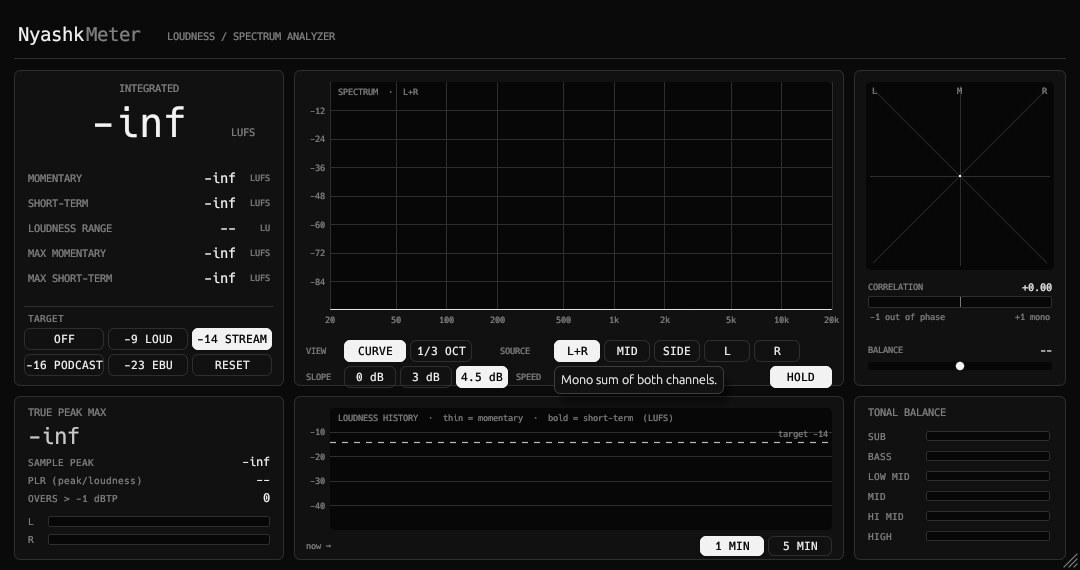
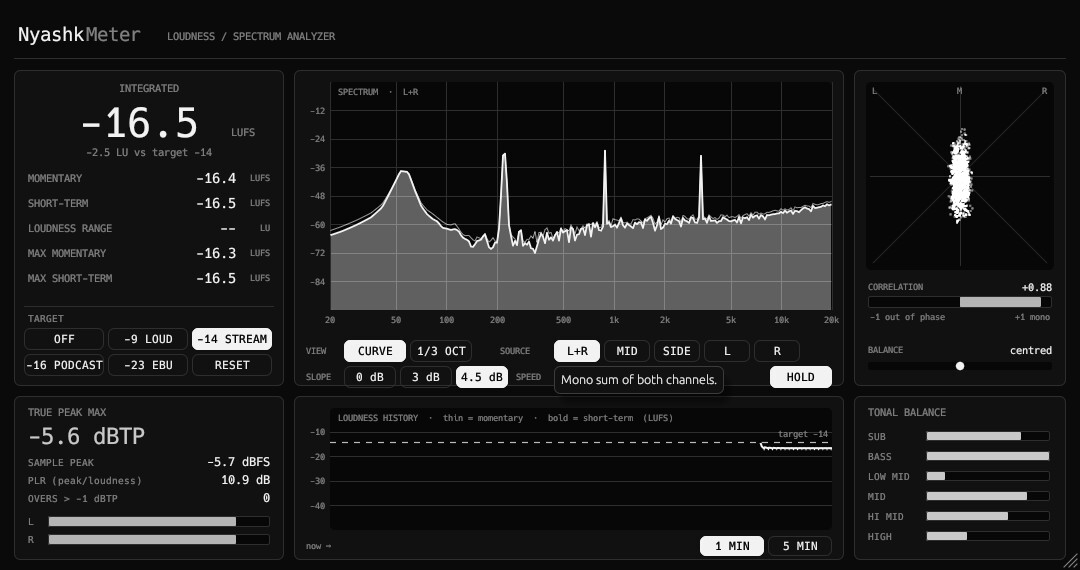
Fix spectrum fill, Air curve dip, NaN guard, band colours, stress tests
Claude-Session: https://claude.ai/code/session_01EndxvcXZsUxUuBFyUHCgZr

diff --git a/crates/common/src/ui.rs b/crates/common/src/ui.rs
@@ -51,8 +51,22 @@ pub fn knob<P: Param>(ui: &mut Ui, setter: &ParamSetter, p: &P, label: &str, cel
     knob_r(ui, setter, p, label, cell, tooltip, bipolar, 30.0)
 }
 
+/// Band colours (muted so they sit well on the black UI): used by the EQ and the channel strip.
+pub const C_LF: Color32 = Color32::from_rgb(0xd8, 0x62, 0x5c);
+pub const C_LMF: Color32 = Color32::from_rgb(0x86, 0xc2, 0x6e);
+pub const C_HMF: Color32 = Color32::from_rgb(0x5f, 0xa3, 0xe4);
+pub const C_HF: Color32 = Color32::from_rgb(0xc0, 0x92, 0xe0);
+pub const C_DYN: Color32 = Color32::from_rgb(0xe2, 0xb0, 0x58);
+pub const C_GATE: Color32 = Color32::from_rgb(0x58, 0xc4, 0xb8);
+
 #[allow(clippy::too_many_arguments)]
 pub fn knob_r<P: Param>(ui: &mut Ui, setter: &ParamSetter, p: &P, label: &str, cell: Rect, tooltip: &str, bipolar: bool, r: f32) -> KnobEv {
+    knob_ac(ui, setter, p, label, cell, tooltip, bipolar, r, WHITE)
+}
+
+/// Knob with an accent colour for the value arc and pointer.
+#[allow(clippy::too_many_arguments)]
+pub fn knob_ac<P: Param>(ui: &mut Ui, setter: &ParamSetter, p: &P, label: &str, cell: Rect, tooltip: &str, bipolar: bool, r: f32, accent: Color32) -> KnobEv {
     let c = Pos2::new(cell.center().x, cell.top() + r + 4.0);
     let hit = Rect::from_center_size(c, Vec2::splat(2.0 * r + 8.0));
     let resp = ui.allocate_rect(hit, Sense::click_and_drag());
@@ -116,9 +130,9 @@ pub fn knob_r<P: Param>(ui: &mut Ui, setter: &ParamSetter, p: &P, label: &str, c
     painter.circle_filled(pt(ring, 1.0), 2.0, LINE);
     let from = if bipolar { 0.5 } else { 0.0 };
     if (norm - from).abs() > 0.002 {
-        painter.add(egui::Shape::line(arc(from, norm), PathStroke::new(4.0, WHITE)));
-        painter.circle_filled(pt(ring, from), 2.0, WHITE);
-        painter.circle_filled(pt(ring, norm), 2.0, WHITE);
+        painter.add(egui::Shape::line(arc(from, norm), PathStroke::new(4.0, accent)));
+        painter.circle_filled(pt(ring, from), 2.0, accent);
+        painter.circle_filled(pt(ring, norm), 2.0, accent);
     }
     // round knob body
     let body = r * 0.72;
@@ -127,9 +141,9 @@ pub fn knob_r<P: Param>(ui: &mut Ui, setter: &ParamSetter, p: &P, label: &str, c
     painter.circle_filled(c, body * 0.84, Color32::from_rgb(24, 24, 24));
     painter.circle_stroke(c, body, Stroke::new(1.0, Color32::from_rgb(70, 70, 70)));
     // pointer
-    painter.line_segment([pt(body * 0.30, norm), pt(body * 0.80, norm)], Stroke::new(3.0, WHITE));
-    painter.circle_filled(pt(body * 0.80, norm), 1.5, WHITE);
-    painter.circle_filled(pt(body * 0.30, norm), 1.5, WHITE);
+    painter.line_segment([pt(body * 0.30, norm), pt(body * 0.80, norm)], Stroke::new(3.0, accent));
+    painter.circle_filled(pt(body * 0.80, norm), 1.5, accent);
+    painter.circle_filled(pt(body * 0.30, norm), 1.5, accent);
 
     // value + label (click the value box to type a number)
     let val = p.normalized_value_to_string(norm, true);
@@ -296,4 +310,23 @@ pub fn vbar(ui: &Ui, rect: Rect, level_db: f32, peak_db: f32, lo: f32, hi: f32) 
 pub fn led(ui: &Ui, c: Pos2, on: bool) {
     ui.painter().circle_filled(c, 3.5, if on { WHITE } else { Color32::from_rgb(0x2a, 0x2a, 0x2a) });
     ui.painter().circle_stroke(c, 3.5, Stroke::new(1.0, LINE));
+}
+
+/// Fill the area between a polyline and the horizontal line `base_y`.
+/// egui fills only convex polygons, so a spectrum has to be drawn as a strip of quads.
+pub fn fill_under(painter: &egui::Painter, pts: &[Pos2], base_y: f32, color: Color32) {
+    if pts.len() < 2 {
+        return;
+    }
+    let mut mesh = egui::epaint::Mesh::default();
+    let uv = egui::epaint::WHITE_UV;
+    for w in pts.windows(2) {
+        let (a, b) = (w[0], w[1]);
+        let i = mesh.vertices.len() as u32;
+        for p in [a, b, Pos2::new(b.x, base_y), Pos2::new(a.x, base_y)] {
+            mesh.vertices.push(egui::epaint::Vertex { pos: p, uv, color });
+        }
+        mesh.indices.extend_from_slice(&[i, i + 1, i + 2, i, i + 2, i + 3]);
+    }
+    painter.add(egui::Shape::mesh(mesh));
 }

diff --git a/crates/common/src/demo.rs b/crates/common/src/demo.rs
@@ -1,0 +1,53 @@
+//! Developer helper for screenshots: with `NYASHK_DEMO=1` the standalone builds replace the input
+//! with a music-like test signal (bass, mids, a bit of top, decorrelated noise).
+use nih_plug::prelude::Buffer;
+use std::sync::Mutex;
+
+struct State {
+    n: u64,
+    rng: u32,
+    lp: [f32; 2],
+    on: bool,
+}
+static ST: Mutex<Option<State>> = Mutex::new(None);
+
+pub fn fill(buffer: &mut Buffer, fs: f32) {
+    let mut g = ST.lock().unwrap();
+    let st = g.get_or_insert_with(|| State { n: 0, rng: 12345, lp: [0.0; 2], on: std::env::var("NYASHK_DEMO").is_ok() });
+    if !st.on {
+        return;
+    }
+    for mut frame in buffer.iter_samples() {
+        let t = st.n as f32 / fs;
+        st.n += 1;
+        let beat = (-(t * 2.0 % 1.0) * 5.0).exp();
+        let mut v = [0.0f32; 2];
+        for (c, s) in frame.iter_mut().enumerate() {
+            st.rng = st.rng.wrapping_mul(1664525).wrapping_add(1013904223);
+            let white = (st.rng >> 8) as f32 / 8388608.0 - 1.0;
+            st.lp[c] += 0.15 * (white - st.lp[c]);
+            let w = std::f32::consts::TAU * t;
+            let x = 0.35 * beat * (w * 55.0).sin()
+                + 0.12 * (w * 220.0).sin()
+                + 0.08 * (w * 880.0 + c as f32).sin()
+                + 0.04 * (w * 3300.0).sin()
+                + 0.10 * st.lp[c]
+                + 0.02 * white;
+            v[c] = x;
+            *s = x * 0.9;
+        }
+        let _ = v;
+    }
+}
+
+/// Replace NaN / infinite input samples by silence, so one bad sample from a host cannot
+/// poison the filter states of a plugin forever.
+pub fn sanitize(buffer: &mut Buffer) {
+    for ch in buffer.as_slice() {
+        for s in ch.iter_mut() {
+            if !s.is_finite() {
+                *s = 0.0;
+            }
+        }
+    }
+}

diff --git a/plugins/nyashkmeter/src/editor.rs b/plugins/nyashkmeter/src/editor.rs
@@ -235,10 +235,7 @@ pub fn create(params: Arc<MeterParams>, shared: Arc<Shared>) -> Option<Box<dyn E
                             line.push(Pos2::new(xa + 1.0, dy(at(&st.smooth, fa, fb) + adj)));
                             peak.push(Pos2::new(xa + 1.0, dy(at(&st.hold, fa, fb) + adj)));
                         }
-                        let mut poly = line.clone();
-                        poly.push(Pos2::new(g.right(), g.bottom()));
-                        poly.push(Pos2::new(g.left(), g.bottom()));
-                        clip.add(egui::Shape::Path(egui::epaint::PathShape { points: poly, closed: true, fill: Color32::from_white_alpha(26), stroke: egui::epaint::PathStroke::NONE }));
+                        fill_under(&clip, &line, g.bottom(), Color32::from_white_alpha(26));
                         if p.hold.value() {
                             clip.add(egui::Shape::line(peak, PathStroke::new(1.0, Color32::from_white_alpha(80))));
                         }

diff --git a/crates/common/src/dsp.rs b/crates/common/src/dsp.rs
@@ -102,6 +102,13 @@ impl Coef {
         Coef { b0: b0 as f32, b1: (-b0) as f32, b2: 0.0, a1: ((k - 1.0) / (1.0 + k)) as f32, a2: 0.0 }
     }
 
+    /// First-order low-pass (6 dB/oct), bilinear.
+    pub fn lowpass1(fs: f32, f: f32) -> Coef {
+        let k = (std::f64::consts::PI * (f as f64).clamp(5.0, fs as f64 * 0.49) / fs as f64).tan();
+        let b0 = k / (1.0 + k);
+        Coef { b0: b0 as f32, b1: b0 as f32, b2: 0.0, a1: ((k - 1.0) / (1.0 + k)) as f32, a2: 0.0 }
+    }
+
     /// Band-pass with constant 0 dB peak gain.
     pub fn bandpass(fs: f32, f: f32, q: f32) -> Coef {
         let f = (f as f64).clamp(5.0, fs as f64 * 0.49);

diff --git a/plugins/nyashkmeter/src/lib.rs b/plugins/nyashkmeter/src/lib.rs
@@ -248,6 +248,9 @@ impl Plugin for NyashkMeter {
     }
 
     fn process(&mut self, buffer: &mut Buffer, _aux: &mut AuxiliaryBuffers, _c: &mut impl ProcessContext<Self>) -> ProcessStatus {
+        nyashk_common::demo::sanitize(buffer);
+        #[cfg(feature = "standalone")]
+        nyashk_common::demo::fill(buffer, 48000.0);
         let Some(meter) = self.meter.as_mut() else { return ProcessStatus::Normal };
         let sh = &self.shared;
         if sh.reset.swap(false, Ordering::Relaxed) {

diff --git a/crates/common/src/lib.rs b/crates/common/src/lib.rs
@@ -1,4 +1,5 @@
 //! Shared building blocks of the Nyashk plugins: UI widgets, DSP helpers, FFT, EQ core, sample tap.
+pub mod demo;
 pub mod dsp;
 pub mod eq;
 pub mod fft;
